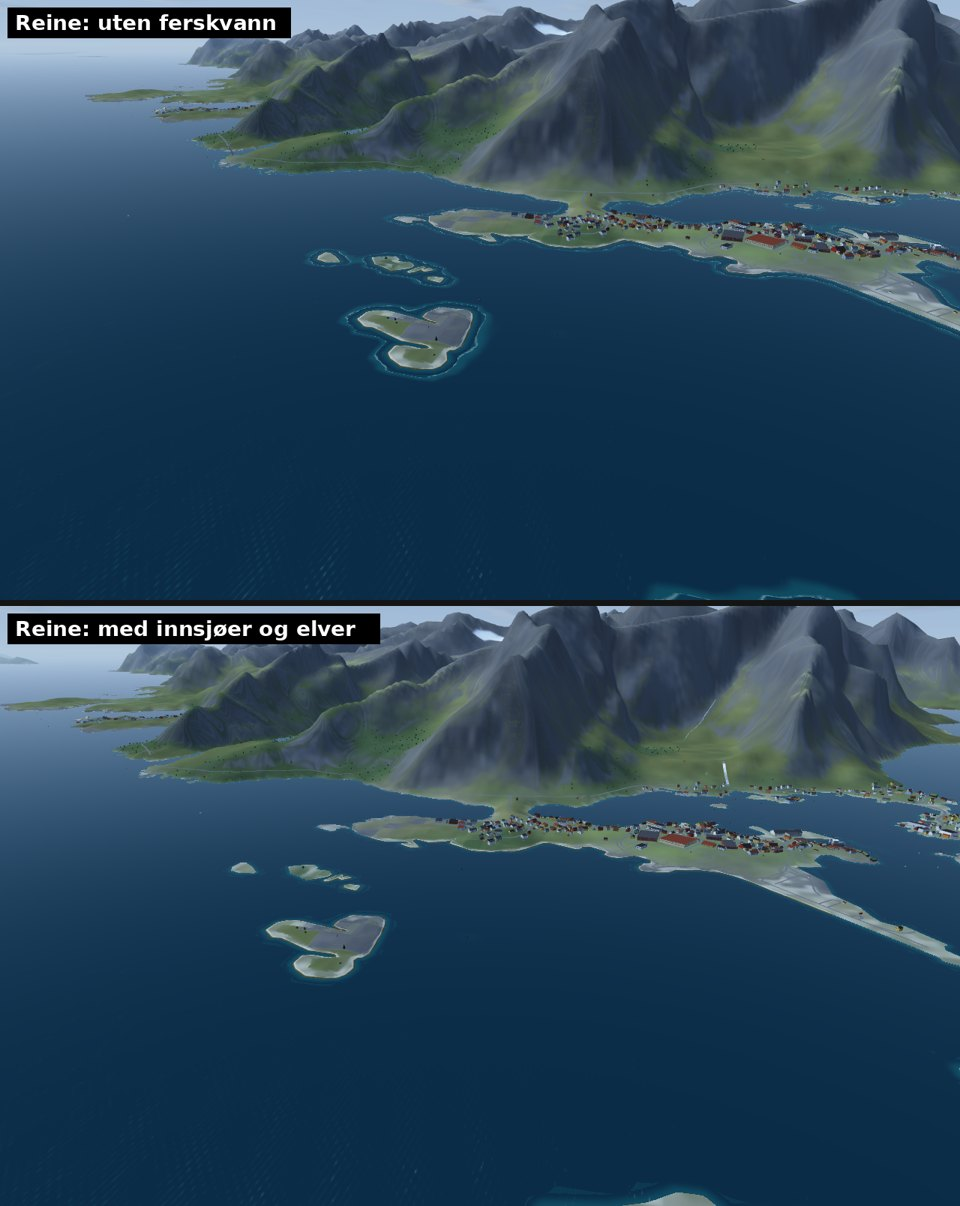
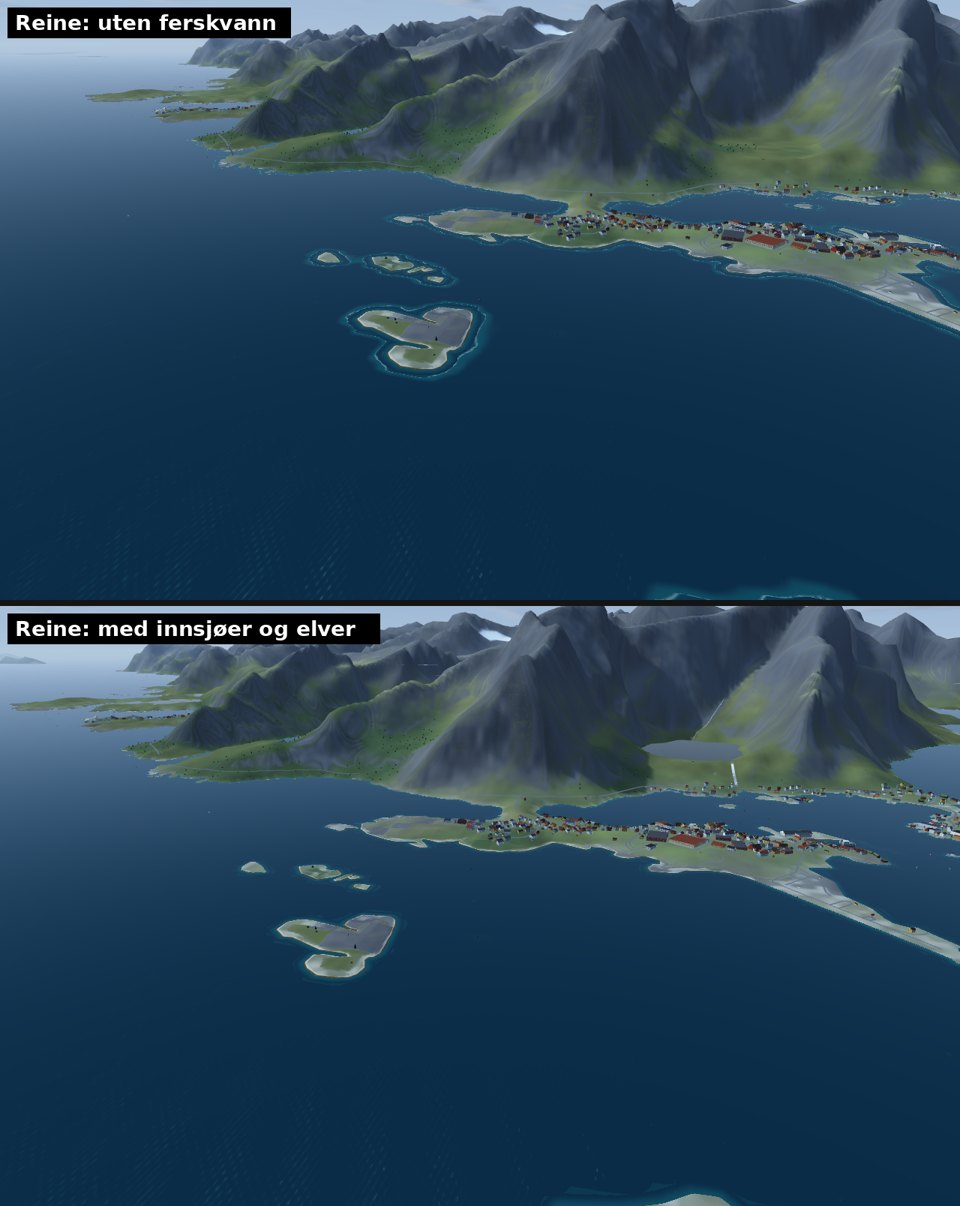
Docs: G2, the surf off the shore, the grounds without circles; pictures
Claude-Session: https://claude.ai/code/session_013BxXiByJL97ZdBfrhEuWyj

diff --git a/docs/BACKLOG.md b/docs/BACKLOG.md
@@ -6,7 +6,7 @@
 
 - **Fysikk 4: sjøen og skroget** (planen vedtatt 27.10.2026, `docs/planer/fysikk-4-sjo-og-skrog.md`; Jonas: «1a, 2b, 3a, 4a, 5a, 6a, 7a, 8ok, 9a»): F1 skumkartet (kjølvann, skumkrage, skum som blir liggende) først, så F2 oppdrift per skrogsnitt i 3D, F3 Jacobi-brytning og spekteret, F4 kystnær sjø, F5 skrogfartskneik, squat og bankeffekt, F8 strøm (to økter, valgt mot anbefalingen), så F6 FFT-måling og F7 brottsjø. F1 (skumkartet) er bygd og rullet ut 27.10.2026 (5.20c i `docs/systemer/vaer-og-hav.md`), ikke målt på nettbrettet ennå; F2 (oppdrift per skrogsnitt) står for tur. Nullpunkt på OnePlus Pad 3 i fint vær: 71 bilder/s, 14,1 ms, Høy. Planen ligger på grenen `ccr-abdf5ed8-6xcw0q` og må flettes inn i arbeidsgrenen.
 - **NPC-flåten for hele landet** (plan 28.10.2026, `docs/planer/npc-flaaten.md`; Jonas: «automatisere npc-flåten i hele landet, gjøre oppførsel mer realistisk, innlegging av flere typer npc-fartøy»): åtte faser N1–N8. Venter på Jonas' valg (fem valg) og klarsignal.
-- **Grafikk: natur, miljø og omgivelser** (plan 28.10.2026, `docs/planer/grafikk-natur-og-miljo.md`; Jonas: «Grafisk overhaling av natur, miljø og omgivelser. Mål: høyest mulig nivå av realisme»): ni faser G1–G9 (arealdekket med alle ESA-klassene og byggenes høyde og takform, innsjøer og elver, Sentinel-2 som bakkens farge prøvd på Senja, skogen fra SR16 med impostorer, tonemapping og luftperspektiv og skybase, vått og nedbør, vindturbiner og kraftspenn, 10 m-bakke langs sjøen med tuer og ur, liv i landskapet). Vedtatt 28.10.2026 (Jonas: dropp oppdrettsanlegg, ingen søksmål; kjør på med det som er mulig innenfor rammene; bare Norge; vannlinja som G10). **G1 (arealdekket) og G5 (lys og luft) bygd 28.10.2026** på grenen `ccr-1d00422f-gjapvb`, ikke flettet inn i arbeidsgrenen ennå (`kart-10` er alt nyeste kartrelease; gamle klienter ser bort fra det nye laget). Neste: G2 (innsjøer og elver) i ny økt. Planfila har status. Planen ligger på grenen `ccr-1d00422f-gjapvb` og må flettes inn i arbeidsgrenen.
+- **Grafikk: natur, miljø og omgivelser** (plan 28.10.2026, `docs/planer/grafikk-natur-og-miljo.md`; Jonas: «Grafisk overhaling av natur, miljø og omgivelser. Mål: høyest mulig nivå av realisme»): ni faser G1–G9 (arealdekket med alle ESA-klassene og byggenes høyde og takform, innsjøer og elver, Sentinel-2 som bakkens farge prøvd på Senja, skogen fra SR16 med impostorer, tonemapping og luftperspektiv og skybase, vått og nedbør, vindturbiner og kraftspenn, 10 m-bakke langs sjøen med tuer og ur, liv i landskapet). Vedtatt 28.10.2026 (Jonas: dropp oppdrettsanlegg, ingen søksmål; kjør på med det som er mulig innenfor rammene; bare Norge; vannlinja som G10). **G1 (arealdekket) og G5 (lys og luft) bygd 28.10.2026, G2 (innsjøer og elver) 29.10.2026 med kartreleasen `kart-12`** på grenen `ccr-1d00422f-gjapvb`, ikke flettet inn i arbeidsgrenen ennå (`kart-10` er alt nyeste kartrelease; gamle klienter ser bort fra det nye laget). Neste: G3 (Sentinel-2 prøvd på Senja) i ny økt. Innsjøene og elvene i kartplotteren (2D) er ikke bygd. Planfila har status. Planen ligger på grenen `ccr-1d00422f-gjapvb` og må flettes inn i arbeidsgrenen.
 - **Økonomi 2 er bygd og rullet ut (Ø1–Ø5 og lotten etter fiskerioverenskomsten, 27.10.2026):** flettet inn i arbeidsgrenen `ccr-5e1ba2f4-pusvyd` og publisert på detstorebla.no (Jonas: «Commit og push ut på detstorebla.no når du er klar»). Planen og statusen står i `docs/planer/okonomi/02-design.md`, systemet i `docs/systemer/priser-og-salg.md` (5.4: hovedboka, lotten, bankkontoene, skatten).
 - **Økonomi 2 må spilltestes:** lottabellen, avsetningen til skatt og kassekreditten er nye for spillerne. Følg med på om trivselen (`lotWeek`, `WEEKKR`) passer båtstørrelsene; `WEEKKR` er satt etter skiffens tall i `progweek` (rundt 14 000 kr per tur i skreisesongen) og et anslag for de større båtene.
 - **Driftsplan 2, del 8 (rydding) venter på at Jonas har prøvd den nye planen** (27.10.2026): delene 1–7 er bygd og bryteren på (7f817c3). Del 8 fjerner `core/06d-drift.js` og `ui/05c-drift.js`, bytter `drifttest.py`/`driftuitest.py` ut med `driftsplan2test.py`/`driftsplan2ui.py`/`driftsplan2map.py`, og flytter `tutdrift.py` og `opsowntest.py` over; til da setter de gamle testene `DRIFT2 = false`. `DRIFTCTX` på rutepanelet (`07-guide.js`, `03-map.js`, `08-actions.js`) hører til den gamle siden og går samme vei. Oppdraget, kravene R0–R10 og scenariene står i `docs/planer/driftsplan-2/00-oppdrag.md`, status i `02-design.md`. Går foran sikkerheten SK1–SK6.

diff --git a/docs/systemer/3d-verden.md b/docs/systemer/3d-verden.md
@@ -124,11 +124,13 @@ Planen: `docs/planer/grafikk-natur-og-miljo.md`, G2. Før dette fantes det ikke 
   - **Stående vann** (innsjø, tjern, magasin): en flat flate i vannets høyde, medianen av 25 m-høydene inne i den + 0,3 m (Kartverkets terreng har innsjøene flate i vannflata). Trianguleres i rørledningen (shapely, constrained Delaunay).
   - **Elveflater** draperes på bakken (0,2 m over).
   - **Linjene** (bekk, elv, kanal og grøft) og **fossene** (punkter).
-  - Hammerfest-flisa: rundt 6 000 ting, 210 kB pakket, 18 s å lage. Hele kysten kommer med neste kartrelease; eldre klienter hopper over posten (`VECN` i `core/01c-vec.js` kjenner den ikke).
+  - Hammerfest-flisa: rundt 6 000 ting, 210 kB pakket, 18 s å lage. Hele kysten fra `kart-12` (29.10.2026): vannet er 45 MB av vec-pakkenes 81 MB (rundt 270 kB per flis, Bergen 445 kB). Appen henter pakkene flis for flis etter behov (`src/pwa/sw.js`), så det er bare flisene rundt spilleren som lastes. Eldre klienter hopper over posten (`VECN` i `core/01c-vec.js` kjenner den ikke).
   - `python3 tools/map/water.py inject tools/map/out/game tx,ty` legger posten inn i en lokal spillmappe for å prøve uten en release.
 - **Spillet** (`view3d/17b-inland-water.js`): et nett per flis med innsjøene og elveflatene, bygd når flisas `view`-pakke er lastet (innen 14 km, to fliser per halve sekund), og frigjort med den. Elvene og bekkene innen 3,5 km legges som bånd på bakken (bekk 2,4 m, elv 9 m, kanal 3 m), hvite der fallet er over rundt 18 % (bekkene litt mindre), og en foss som et hvitt fall ned den bratteste retningen.
   - **Skyggeren** (`vann`): mørkt, torvbrunt vann (norske innsjøer er mørke), himmelen speilet etter Fresnel, krusning som driver med vinden på innsjøene og med strømmen i elvene, solglimt, hvitt vann i strykene, og is med snø om vinteren under snøgrensen (`uIce`, `uSnowY`). Slutter med `fin()`, så lufta og skodda er den samme som for terrenget.
+  - **Stående vann i spillets høyder** (rettet etter stikkprøvene 28.–29.10.2026): høydene over 10 m er lagret i trinn på 2 m (`hgtEnc`), så en innsjø Kartverket har flat, leses trappete inne i vannet. Nivået går derfor til 0,3 m over 85 %-persentilen av bakken inne i flata (midten av hver trekant og tre punkter halvveis mot hjørnene), men aldri mer enn 2,5 m over den laveste tidelen av bredden. Vann der under 70 % av punktene da ligger under nivået, og tjern under 400 m², tegnes ikke (et lite tjern i Bergen sto som en mørk kile i lia). Elveflatene deles i trekanter på høyst 12 m, så de følger bakken.
   - Tegnes etter terrenget i både det fjerne og det nære passet i `24-cinema.js`, med `polygonOffset` mot bakken.
+  - `#waterA` og `#waterL` tegner bare flatene eller bare linjene og fossene, og `#waterI` farger hvert stående vann etter nummeret (r + 256 g, flisa i b), for å finne en feil i et bilde.
   - **`#water0`** i adressen tegner ikke ferskvannet, for sammenligning.
 - **Ikke bygd ennå:** innsjøene og elvene i kartplotteren (2D), lyden av fosser, og sprut ved fossene.
 

diff --git a/docs/systemer/datarorledninger.md b/docs/systemer/datarorledninger.md
@@ -7,6 +7,7 @@
 - Hele kysten i bygget: `python3 tools/map/release.py` og så `python3 tools/map/game.py` lager `tools/map/out/game/` (ikke i git). `node build.mjs` tar den når den finnes, ellers bare Senja fra `src/data/map`. Se 4.13.
 - Bygg, veier, bruer, brygger, moloer og kaifronter for hele kysten ligger i `vec`-pakker per flis (fra `kart-5`, `core/01c-vec.js`). De kommer alltid i appen, men i artifacten bare med `KYST_VEC=1`, fordi de ikke får plass under 256 MB. Inne i Senja-ruta gjelder de innebygde dataene. Se 4.15 i `bygg-veier-og-kaier.md`. Fra `kart-6` har vec-pakkene også NPC-trafikken langs kysten (`tools/map/npc.py`), som spillet bare regner innenfor AIS-rekkevidden. Se 4.16 i `npc-trafikk.md`.
 - Arealdekket (`cover`: ESA WorldCover, OpenStreetMaps naturtyper og arealbruk, en klasse per 50 m-rute) lages for hele kysten av `coast.py` i kartreleasen og for Senjas pakker av `python3 tools/map/cover.py senja`. Se 4.11c i `3d-verden.md`.
+- Ferskvannet (`water` i vec-pakkene: innsjøer, tjern, elveflater, bekker, elver, kanaler og fosser fra Overtures `base/water`) lages av `tools/map/water.py` fra `coast.py vec()` i kartreleasen, første gang i `kart-12` (29.10.2026). `python3 tools/map/water.py inject tools/map/out/game tx,ty` legger det inn i en lokal spillmappe for å prøve uten en release. Senjas egne pakker i `src/data/map` har det ikke. Se 4.11e i `3d-verden.md`.
 - Flytebryggene langs kysten (`src/data/flyte.json`: Overtures brygger som OpenStreetMap merker `floating=yes`, med midtlinjer) lages av `python3 tools/map/flyte.py` (etter `release.py` og `game.py`). Spillet tegner dem med Blender-modulene fra `tools/harbour/brygge.py` i stedet for pakkenes bryggekasser. Se 4.15 i `bygg-veier-og-kaier.md`.
 - Utstyrsbutikkene og verftene langs kysten (egne steder med egen kai, `src/data/steder.json`) lages av `python3 tools/steder/steder.py` (Overture Maps places som punkter, lagt på kaiene i vec-pakkene, og oppdiktede steder der avstanden blir for lang). Se 5.32 i `handel-og-steder.md`.
 - Tidevannet langs kysten hentes fra Kartverket av `.github/workflows/tidevann.yml` (startes ved å endre `tools/tide/tide.json`) og ligger som releaser `tide-N`. Den nyeste kopieres til `src/data/tide.json`. Se 4.14 i `vaer-og-hav.md`.

diff --git a/docs/systemer/vaer-og-hav.md b/docs/systemer/vaer-og-hav.md
@@ -174,6 +174,7 @@ Brukerens valg:
   | 10 | Hvitt hav fra 24,5 m/s |
 
   Skumtoppene dekker andelen W = 3,84·10⁻⁶·U^3,41 (Monahan og O'Muircheartaigh 1980) der sjøen har hatt 0,2–3 km å bryte på. De sitter på kammene, normalisert med eget standardavvik. Terskelen er tilpasset den målte spredningen: `0,228 + 0,293·z − 0,016·z²`, der z er normalkvantilen. Kanten er like bred som pikselen (`fwidth`), med en svak, myk rand utenfor, og flekkene inni glattes ut før de blir mindre enn et par piksler. Da hakker ikke kanten. Der skummet er for lite til å synes, blir havet hvitere i stedet. Brenningene følger sjøen som når hver strand.
+  **Brenningene og grunnene langs land** (Jonas 28.10.2026: «Hvorfor skummet noen meter ut fra selve vannkanten?»): nærmest land kommer dybden fra strandteksturen (`buildLandMask`, rundt 18 m ut fra linja), lenger ute fra nærnettets høyder (23 m ruter). En rute som krysser linja, blander landets høyde med bunnen og ga en falsk grunne 30–60 m ut fra all kyst, med skum og turkis. Utenfor strandteksturen er det nå bare en grunne der alle fire nabopunktene i nettet (±1,5 rute) ligger under vann; ellers regnes dybden som minst 5 m, så det turkise slutter der strandteksturens gjør, uten egen kant (`SEA_FS` i `01-shaders.js`). Prøvd ved Reine, Bergen, Bodø og Hammerfest (`docs/pr/ccr-1d00422f-gjapvb/brenning/`): feilen fantes alle fire stedene og er borte. I stille vær er det lite skum ved selve strandkanten, fordi båndet der er like bredt som bølgehøyden tilsier.
 - **Jevne overganger:**
   - Vind, høyde og dønning glir mot nye verdier med tidskonstant 4 s, retningen over 12 s.
   - Alle trekk har myke overganger.

diff --git a/docs/planer/grafikk-natur-og-miljo.md b/docs/planer/grafikk-natur-og-miljo.md
@@ -227,3 +227,4 @@ Hver fase måles på Jonas' OnePlus Pad 3 (det han spiller på, 28.10.2026) med 
 - 28.10.2026: Jonas: «Husk bare at vi ikke trenger å ta med sverige, finland, danmark … Kjør på når du er klar. Husk å ta gode bilder underveis», og underveis: «Husk også alt som ligger i vannlinjen som kaier, moloer, flytebrygger …» (fase G10).
 - 28.10.2026: **G1 bygd** (`3d-verden.md` 4.11c): laget `cover` fra ESA, N50-naturtypene og arealbruken, i Senjas pakker og i kartreleasen `kart-10` for hele kysten (258,7 MB mot 250,1 MB i `kart-8`); farger, myr, jorder, lyng, vidde, bre, trær og ruska i spillet. Bilder før og etter i `docs/pr/ccr-1d00422f-gjapvb/g1/`. Byggenes høyde og takform er tatt ut (Overture har dem ikke i Norge).
 - 28.10.2026: **G5 bygd** (`3d-verden.md` 4.11d): luftperspektiv per fargekanal med varm dis mot sola, skulder mot hvitt fra 0,8, og skodde på fjellet for alt som tegnes. Bilder i klart og grått vær i `docs/pr/ccr-1d00422f-gjapvb/g5-clear/` og `g5-grey/`. Ikke målt på nettbrettet ennå. Neste: G2 (innsjøer og elver).
+- 29.10.2026: **G2 bygd** (`3d-verden.md` 4.11e): innsjøer, tjern, elver, bekker og fosser fra `base/water` i `kart-12`, og resten av G5 (glansen rundt sola, jordskyggen med det rosa beltet, skyene lyst fra sola). I samme økt: brenningene ute i sjøen rettet (`vaer-og-hav.md`), fangstfeltene uten sirkel (Jonas). Bilder i `docs/pr/ccr-1d00422f-gjapvb/g2/` og `brenning/`. Ikke bygd: innsjøene i kartplotteren, lyden av fosser. Neste: G3 (Sentinel-2 på Senja).

diff --git a/docs/systemer/kartplotter.md b/docs/systemer/kartplotter.md
@@ -125,3 +125,5 @@ Rederi-appen har også fått regnskap med lånene (tilbakemelding #9): resultat,
 Tromsøyas gater kom og gikk i kartplotteren. `vecPrune` slapp vec-flisene som lå langt fra punktene den fikk. Båten ber om det med bare sin egen posisjon (`05-vessels.js`, 120 km), og 3D-visningen med øyet. Med båten på vei mot Båtsfjord ble flisene under kartet sluppet. Kartet ba om dem igjen (`vecWant`), de kom, og så ble de sluppet på nytt.
 
 Nå tar `vecPrune` alltid med midten av kartplotteren når den er åpen. Kontroll: med kartet over Tromsø og båten ved Båtsfjord sto 3 666 veier igjen etter en runde med `vecPrune`, mot 0 uten. Det er målt med `KYST_VEC=1`, fordi vec-pakkene bare er med i bygget da.
+
+- **Fangstfeltene uten sirkel** (Jonas 28.10.2026: «Fjern sirklene for fangstfelt langs hele kysten. Bare navn på felt langs hele kysten er ok, men det skal ikke vises som en definert sirkel»): `renderStatic` i `ui/03-map.js` tegner bare feltets navn (fra `view.z ≥ 0,5`). Fisket bruker feltene som før.
